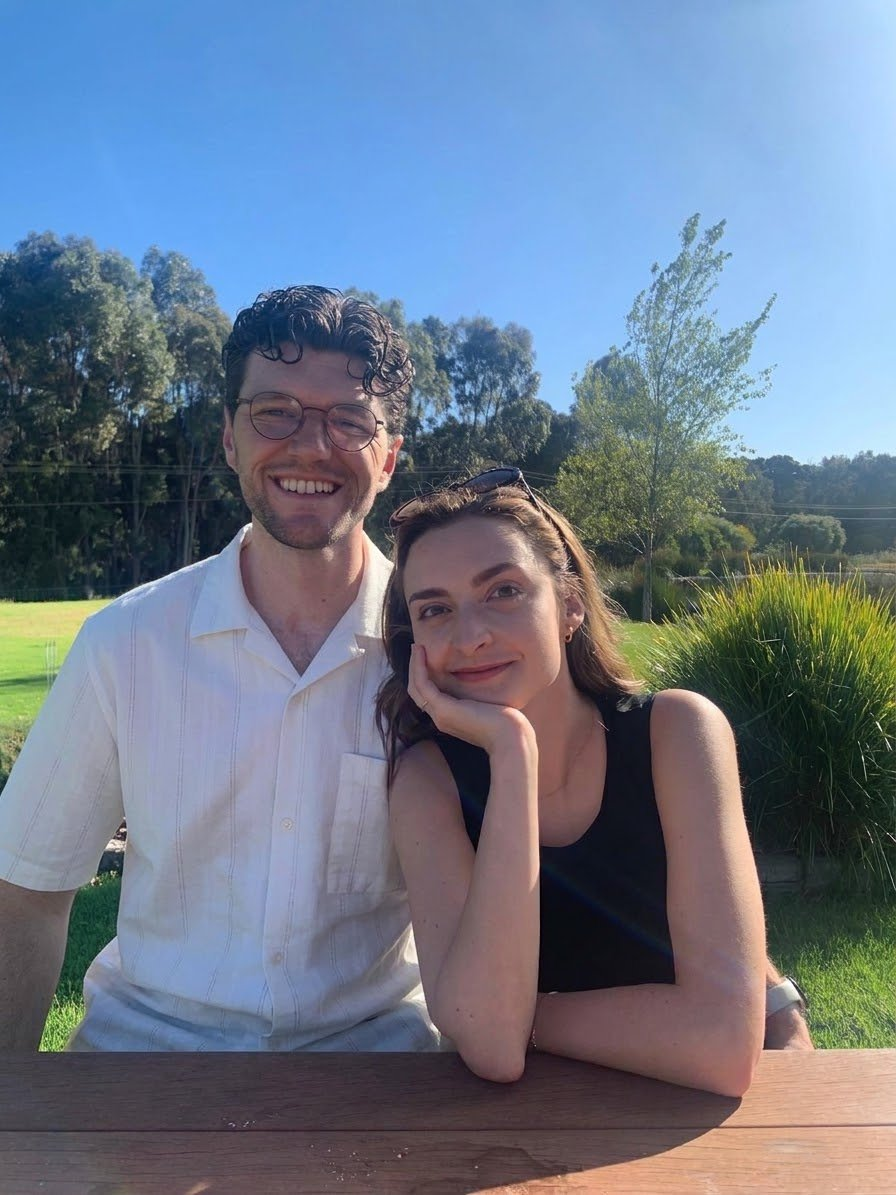
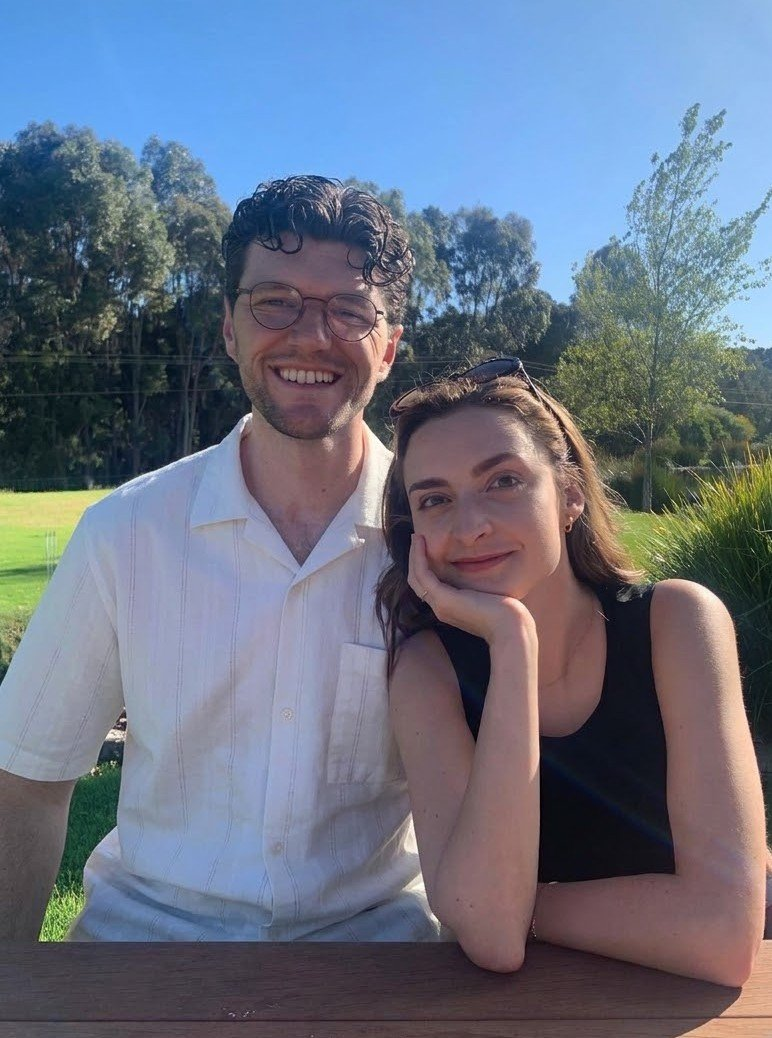
Wedding: new portrait photo, set off to the side with an offset frame
Claude-Session: https://claude.ai/code/session_01ESVYgPo5vBNY8aSJEtBJia

diff --git a/wedding/style.css b/wedding/style.css
@@ -240,3 +240,9 @@ main, #gate { border-color:var(--duck); box-shadow:inset 0 0 0 7px var(--paper),
 .names .last { font-size:.74em; margin:-.26em 0 .1em; }
 /* Surnames sit just below the capitals without touching them */
 .names .last { margin:.02em 0 .12em; }
+
+/* Home photo: portrait, set slightly to the left, with a frame offset behind it in the page-border style */
+.hero-wrap { position:relative; width:min(74%, 330px); margin:8px 0 52px 3%; isolation:isolate; }
+.hero-wrap::before { content:""; position:absolute; inset:0; transform:translate(18px, 18px); z-index:-1;
+  border:6px solid var(--duck); box-shadow:inset 0 0 0 5px var(--paper), inset 0 0 0 6px var(--duck); }
+.hero-wrap .hero { display:block; width:100%; height:auto; aspect-ratio:auto; margin:0; outline:0; }

diff --git a/wedding/index.html b/wedding/index.html
@@ -29,7 +29,7 @@ try {
     <div class="lang-switch"><a href="#" data-set-lang="es" data-lang="en" lang="es">Español</a><a href="#" data-set-lang="en" data-lang="es" lang="en">English</a></div>
   </header>
 
-  <img class="hero" src="us.jpg" alt="Cameron &amp; Annie">
+  <div class="hero-wrap"><img class="hero" src="us.jpg" alt="Cameron &amp; Annie" width="772" height="1038"></div>
 
   <section>
     <p class="blurb"><span data-lang="en">We’re so excited to be getting married, and we can’t wait to celebrate with our favourite people.</span><span data-lang="es">Estamos muy ilusionados por casarnos y deseando celebrarlo con nuestras personas favoritas.</span></p>
